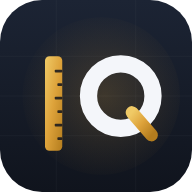
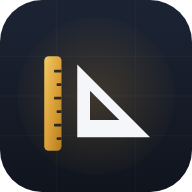
Remove a marca por ora: título descritivo e ícone neutro
"Prumo IA" e "Quantiza" foram descartados por colisão de registro (Quantiza
já é uma software house brasileira). Até definir um nome, o app fica sem
marca, num estado neutro e descritivo — sem risco.

- Título/wordmark voltam a "Levantamento de Obra" (descritivo, não é marca);
  slogan neutro "Quantitativos a partir de plantas em PDF".
- Ícone neutro: régua dourada + esquadro branco (símbolo genérico de
  medição), sem letra. Mantém a paleta navy/dourado e o tema claro/escuro.
- Atualiza título, meta, apple-title, manifest, README e CLAUDE.md.
  Versão 5.4, cache v30.

Testado no navegador: título e cabeçalho "Levantamento de Obra" com o ícone
neutro, sem erros de página.

Claude-Session: https://claude.ai/code/session_01XvWdRauVmr8EZz24E2LHMu

Changed region(s): [[0.375, 0.2812, 0.8438, 0.75], [0.2812, 0.2812, 0.3438, 0.7812], [0.2188, 0.2812, 0.25, 0.7812]]

diff --git a/index.html b/index.html
@@ -5,12 +5,12 @@
   <meta http-equiv="Content-Security-Policy" content="default-src 'self'; script-src 'self'; style-src 'self' 'unsafe-inline'; img-src 'self' data: blob:; font-src 'self'; connect-src 'self' https://*.supabase.co https://api.anthropic.com; worker-src 'self'; object-src 'none'; base-uri 'self'; form-action 'self'" />
   <meta name="viewport" content="width=device-width, initial-scale=1.0" />
   <meta name="theme-color" content="#161e29" />
-  <meta name="description" content="Quantiza — levantamento de quantitativos de obra a partir de plantas em PDF, com IA de visão, medição precisa e orçamento" />
+  <meta name="description" content="Levantamento de quantitativos de obra a partir de plantas em PDF, com IA de visão, medição precisa e orçamento" />
   <meta name="mobile-web-app-capable" content="yes" />
   <meta name="apple-mobile-web-app-capable" content="yes" />
   <meta name="apple-mobile-web-app-status-bar-style" content="black-translucent" />
-  <meta name="apple-mobile-web-app-title" content="Quantiza" />
-  <title>Quantiza — levantamento de obra</title>
+  <meta name="apple-mobile-web-app-title" content="Levantamento" />
+  <title>Levantamento de Obra</title>
   <link rel="manifest" href="manifest.json" />
   <link rel="icon" type="image/png" sizes="192x192" href="icons/icon-192.png" />
   <link rel="icon" type="image/png" sizes="512x512" href="icons/icon-512.png" />
@@ -23,8 +23,8 @@
     <div class="login-caixa">
       <div class="login-marca">
         <img src="icons/icon-192.png" alt="" />
-        <h1>Quanti<span>za</span></h1>
-        <p class="marca-slogan">Intelig&ecirc;ncia que quantifica sua obra</p>
+        <h1>Levantamento <span>de Obra</span></h1>
+        <p class="marca-slogan">Quantitativos a partir de plantas em PDF</p>
       </div>
       <p class="dica" id="login-msg">Entre com sua conta para acessar.</p>
       <label class="campo-label">E-mail</label>
@@ -50,7 +50,7 @@
   <header class="topbar">
     <div class="marca">
       <img src="icons/icon-192.png" alt="" />
-      <h1 class="titulo">Quanti<span>za</span></h1>
+      <h1 class="titulo">Levantamento <span>de Obra</span></h1>
     </div>
 
     <div class="proj-ctrl">
@@ -191,8 +191,7 @@
           <span id="selo-plano" class="selo-plano" hidden></span>
           <a href="#" id="lnk-planos">Ver planos</a>
         </p>
-        <p class="dica" id="versao-app">Quantiza &middot; Intelig&ecirc;ncia que quantifica sua obra</p>
-        <p class="dica" style="margin-top:2px">Vers&atilde;o 5.3 &middot; 23/07/2026</p>
+        <p class="dica" id="versao-app">Levantamento de Obra &middot; Vers&atilde;o 5.4 &middot; 23/07/2026</p>
       </section>
     </aside>
   </main>

diff --git a/sw.js b/sw.js
@@ -1,5 +1,5 @@
 // Service Worker — Levantamento de Obra
-const CACHE = 'levantamento-v29';
+const CACHE = 'levantamento-v30';
 const ASSETS = [
   './',
   './index.html',

diff --git a/CLAUDE.md b/CLAUDE.md
@@ -1,13 +1,13 @@
-# Quantiza — guia do projeto
+# Levantamento de Obra — guia do projeto
 
-**Quantiza** (antes "Prumo IA" / "Levantamento de Obra") — app web (PWA) de
-levantamento de quantitativos de obra a partir de plantas em PDF, inspirado
-num app visto em reel do Instagram e expandido para coordenação de obra
-completa. Interface 100% em pt-BR. O nome só muda na marca (título, manifest,
-ícone); o repositório e a URL do GitHub Pages continuam `levantamento-obra`.
-Identidade: acento **dourado** (`--laranja*` guardam o dourado da marca) e
-fundo **azul-marinho**; marca "Q" (régua dourada + Q) e slogan "Inteligência
-que quantifica sua obra". Ícone em `icons/icon-192/512` (PNG gerados do
+App web (PWA) de levantamento de quantitativos de obra a partir de plantas em
+PDF, inspirado num app visto em reel do Instagram e expandido para coordenação
+de obra completa. Interface 100% em pt-BR. **Marca ainda a definir** — nomes
+"Prumo IA" e "Quantiza" foram descartados por colisão de registro; por ora o
+app usa o título descritivo "Levantamento de Obra" e um ícone neutro
+(régua + esquadro). Repositório e URL do GitHub Pages: `levantamento-obra`.
+Identidade visual mantida: acento **dourado** (`--laranja*` guardam o dourado)
+e fundo **azul-marinho**; ícone em `icons/icon-192/512` (PNG gerados do
 `icons/icon.svg`); tema claro opcional (`data-tema="claro"`).
 
 - **App no ar:** https://jonatangoncalves3aj.github.io/levantamento-obra/

diff --git a/README.md b/README.md
@@ -1,6 +1,6 @@
-# Quantiza
+# Levantamento de Obra
 
-**Quantiza** — app web para **levantamento de quantitativos de obra a partir de plantas em PDF**, com IA de visão e medição precisa. 100% no navegador, offline-first (PWA), sem enviar nenhum arquivo para servidor.
+App web para **levantamento de quantitativos de obra a partir de plantas em PDF**, com IA de visão e medição precisa. 100% no navegador, offline-first (PWA), sem enviar nenhum arquivo para servidor. *(Marca ainda a definir.)*
 
 **Acesse:** https://jonatangoncalves3aj.github.io/levantamento-obra/
 